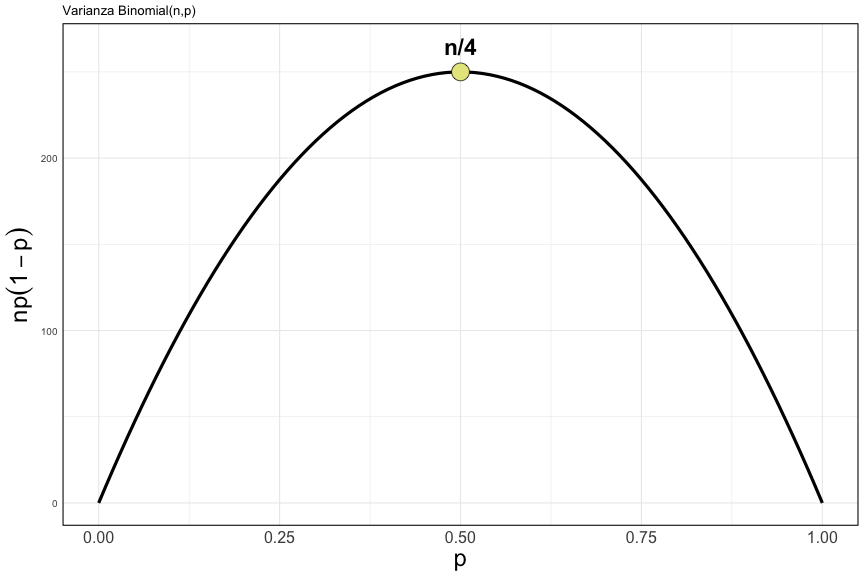
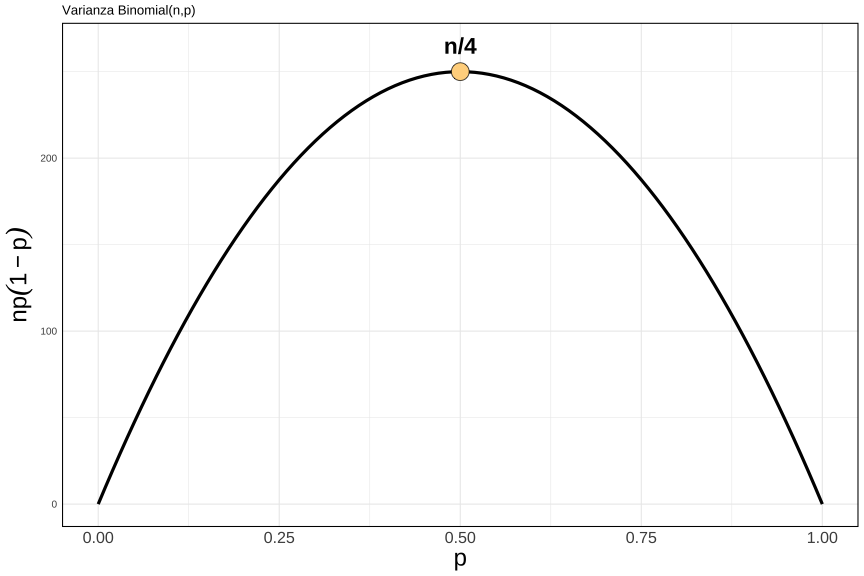
Update

diff --git a/slides/class_4/xaringan-themer.css b/slides/class_4/xaringan-themer.css
@@ -50,7 +50,7 @@
   --text-bold-color: #4953A6;
   --code-highlight-color: rgba(255,255,0,0.5);
   --inverse-text-color: #000000;
-  --inverse-background-color: #E5E68C;
+  --inverse-background-color: #FFD58D;
   --inverse-header-color: #000000;
   --inverse-link-color: #DF484C;
   --title-slide-background-color: #4953A6;
@@ -58,7 +58,7 @@
   --header-background-color: #4953A6;
   --header-background-text-color: #f8f7f3;
   --primary: #4953A6;
-  --secondary: #E5E68C;
+  --secondary: #FFD58D;
   --white: #FFFFFF;
   --black: #000000;
 }
@@ -177,7 +177,7 @@ img, video, iframe {
   max-width: 100%;
 }
 blockquote {
-  border-left: solid 5px #E5E68C80;
+  border-left: solid 5px #FFD58D80;
   padding-left: 1em;
 }
 .remark-slide table {
@@ -194,7 +194,7 @@ th, td {
 .remark-slide table:not(.table-unshaded) thead,
 .remark-slide table:not(.table-unshaded) tfoot,
 .remark-slide table:not(.table-unshaded) tr:nth-child(even) {
-  background: #F9FAE8;
+  background: #FFF6E8;
 }
 table.dataTable tbody {
   background-color: var(--background-color);
@@ -204,7 +204,7 @@ table.dataTable.display tbody tr.odd {
   background-color: var(--background-color);
 }
 table.dataTable.display tbody tr.even {
-  background-color: #F9FAE8;
+  background-color: #FFF6E8;
 }
 table.dataTable.hover tbody tr:hover, table.dataTable.display tbody tr:hover {
   background-color: rgba(255, 255, 255, 0.5);
